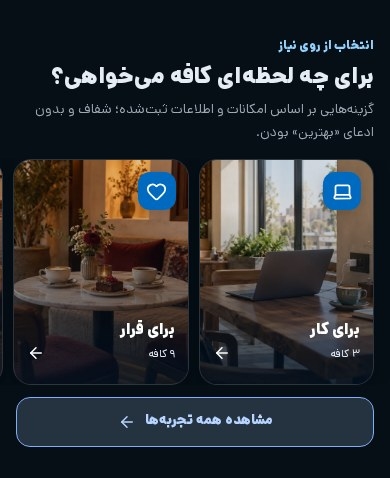
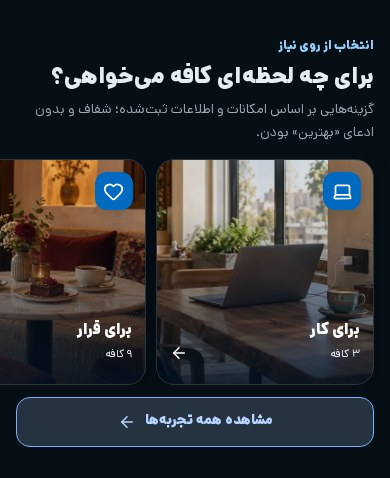
fix(home): preserve partial next experience card on mobile

Changed region(s): [[0.0, 0.3222, 0.9538, 0.8201], [0.3385, 0.7615, 0.3692, 0.7908]]

diff --git a/src/app/page.tsx b/src/app/page.tsx
@@ -87,6 +87,16 @@ const HOME_EXPERIENCE_ART: Record<string, string> = Object.fromEntries([
   'study', 'outdoor', 'late-night', 'calm', 'specialty-coffee',
 ].map((slug) => [slug, `/home/experiences/${slug}.webp`]))
 HOME_EXPERIENCE_ART.photogenic = '/home/experiences/photo.webp'
+const HOME_EXPERIENCE_ALT: Record<string, string> = {
+  gathering: 'تصویر نمادین میز دورهمی دوستانه در کافه',
+  birthday: 'تصویر نمادین چیدمان یک جشن تولد کوچک در کافه',
+  breakfast: 'تصویر نمادین صبحانهٔ ایرانی در کافه',
+  desserts: 'تصویر نمادین شیرینی و چیزکیک در کافه',
+  healthy: 'تصویر نمادین سالاد و سبزیجات گریل در کافه',
+  study: 'تصویر نمادین کتاب و دفتر در گوشهٔ مطالعهٔ کافه',
+  outdoor: 'تصویر نمادین میزهای کافه در یک حیاط سبز',
+  'late-night': 'تصویر نمادین فضای گرم کافه در شب',
+}
 
 export async function generateMetadata(): Promise<Metadata> {
   const [settings, locale] = await Promise.all([getSettings(), getLocalePolicy()])
@@ -349,7 +359,7 @@ export default async function HomePage() {
                     data-experience-slug={experience.slug}
                     data-experience-count={candidateCount}
                   >
-                    <img src={HOME_EXPERIENCE_ART[experience.slug] ?? experience.image} alt={experience.imageAlt} width={480} height={640} loading="lazy" />
+                    <img src={HOME_EXPERIENCE_ART[experience.slug] ?? experience.image} alt={HOME_EXPERIENCE_ALT[experience.slug] ?? `تصویر نمادین: ${experience.imageAlt}`} width={480} height={640} loading="lazy" />
                     <span className={styles.experienceShade} aria-hidden="true" />
                     <span className={styles.experienceBadge}><Icon size={21} aria-hidden="true" /></span>
                     <span className={styles.experienceCopy}>

diff --git a/scripts/home-visual-smoke.ts b/scripts/home-visual-smoke.ts
@@ -57,6 +57,7 @@ try {
     assert.ok(metrics.jsonLd > 0)
     assert.deepEqual(errors, [], `${viewport.width}/${theme}: browser errors`)
     assert.deepEqual(broken, [])
+    let nextCardVisibleFraction: number | null = null
     if (!before) {
       const clippedCards = await page.locator('[class*="featuredEntry"] > a:first-of-type').evaluateAll(cards => cards.filter(card => card.scrollHeight > card.clientHeight + 2).length)
       assert.equal(clippedCards, 0, 'recommended cafe cards must not clip their body')
@@ -74,7 +75,16 @@ try {
           assert.ok(box && box.height >= 48 && box.y + box.height < viewport.height - 82, `${name}: bottom navigation collision`)
         }
         const rail = page.locator('[class*="experienceRail"]')
-        assert.ok(await rail.evaluate(node => node.scrollWidth > node.clientWidth), 'experience swipe remains available')
+        if (await rail.locator('a').count() > 1) {
+          assert.ok(await rail.evaluate(node => node.scrollWidth > node.clientWidth), 'experience swipe remains available')
+          nextCardVisibleFraction = await rail.evaluate(node => {
+            node.scrollLeft = 0
+            const rail = node.getBoundingClientRect()
+            const second = node.querySelectorAll('a')[1].getBoundingClientRect()
+            return Math.max(0, Math.min(innerWidth, rail.right, second.right) - Math.max(0, rail.left, second.left)) / second.width
+          })
+          assert.ok(nextCardVisibleFraction >= .2 && nextCardVisibleFraction <= .85, `${viewport.width}: next experience card must be clearly partial (${nextCardVisibleFraction})`)
+        }
       }
     }
     await page.evaluate(() => scrollTo(0, 0))
@@ -90,7 +100,7 @@ try {
         })
       }
     }
-    results.push({ viewport, theme, ...metrics, images: await images.count(), broken, errors })
+    results.push({ viewport, theme, ...metrics, nextCardVisibleFraction, images: await images.count(), broken, errors })
     await page.close()
   }
 

diff --git a/src/components/home/Home.module.css b/src/components/home/Home.module.css
@@ -573,12 +573,12 @@
 }
 
 .experienceCard {
-  width: min(45vw, 195px);
+  width: min(56vw, 230px);
   min-width: 0;
   height: 226px;
   position: relative;
   display: block;
-  flex: 0 0 min(45vw, 195px);
+  flex: 0 0 min(56vw, 230px);
   overflow: hidden;
   border: 1px solid var(--c-border);
   border-radius: 18px;

diff --git a/docs/HOME_VISUAL_QA_FA.md b/docs/HOME_VISUAL_QA_FA.md
@@ -30,6 +30,8 @@
 - در ۱۴۴۰ پیکسل، ارتفاع کامل از ۵۳۹۰ به ۴۵۷۹ پیکسل رسیده است؛ در ۳۹۰ پیکسل از ۵۰۵۸ به ۵۲۳۵ پیکسل. این اندازهگیری طول صفحه است و بهعنوان معیار سرعت شبکه ارائه نمیشود.
 - کارت غذا در موبایل دو ستون دارد؛ عنوان و Count خارج از Crop عکس قرار دارند. تصویرها در هر دو تم یکسان و بدون Invert هستند.
 - تجربهها بهصورت Rail عمودیتصویر با کارت بعدی نیمهپیدا هستند. CTA «مشاهده همه تجربهها» بیرون Rail و حداقل ۵۰ پیکسل است. CTA محله نیز مستقل است.
+- گیت تکمیلی Swipe، صرفاً به `scrollWidth` اکتفا نمیکند: در موبایل باید بین ۲۰٪ و ۸۵٪ کارت دوم داخل نمای Rail دیده شود. مقدار واقعی در `nextCardVisibleFraction` فایل Metrics ثبت میشود. این گیت ضعف نسخهٔ اولیه در عرضهای ۳۲۰/۳۶۰ را پوشش میدهد.
+- نتیجهٔ Build نهایی در هر دو تم: در عرضهای ۳۲۰، ۳۶۰، ۳۹۰ و ۴۳۰ بهترتیب ۶۴٪، ۶۶٪، ۶۷٪ و ۷۶٪ کارت دوم دیده میشود؛ هر ۱۲ حالت مرورگر موفقاند. عرض کارت دسکتاپ تغییر نکرده است.
 - عکس محیط و لوگو در کارت نظر رفتار متفاوت دارند؛ نام تا دو خط جا دارد. هیچ Badge تأیید خرید ایجاد نشده است.
 - کارتهای پیشنهادی دیگر از ناحیهٔ عکس به پایین بریده نمیشوند. تست، `scrollHeight/clientHeight` کارت را کنترل میکند.
 - CTAهای موبایل با Bounding Box و نوار پایین واقعی بررسی میشوند. Screenshotهای Full Page و First Fold نوار ثابت را حفظ میکنند؛ Cropهای تکیِ کامپوننت برای مقایسهٔ خود کارت، موقتاً نوار ثابت را پنهان میکنند.

diff --git a/docs/HOME_VISUAL_RELEASE_FA.md b/docs/HOME_VISUAL_RELEASE_FA.md
@@ -30,3 +30,11 @@ Branch: `feat/home-visual-redesign-20261018`.
 نسخهٔ سالم پیش از Merge و Imageهای App/Worker آن ثبت و حفظ میشوند. در شکست بحرانی، هر دو سرویس طبق `scripts/docker-deploy.sh` و Runbook Docker به همان نسخهٔ سازگار بازگردند. برای تغییر UI، دیتابیس Restore یا ستونها حذف نشوند. در صورت نیاز به هماهنگکردن GitHub با Runtime، Revert همین تغییر با بررسی مستقل انجام شود.
 
 نتیجهٔ واقعی Merge، URL اجرای Workflow، SHA Runtime و Acceptance پس از اتمام در گزارش تحویل و شواهد همان PR ثبت میشود؛ موفقیت Merge بهتنهایی پذیرش Runtime محسوب نمیشود.
+
+## انتشار اصلی و اصلاح تکمیلی Rail
+
+PR [#87](https://github.com/Rezz0722/cafe/pull/87) با Commit `a76984d68170fb0f7dad52716b3d9bde8bceed8e` منتشر شد. [Workflow](https://github.com/Rezz0722/cafe/actions/runs/39142605035) موفق بود؛ App/Worker روی همان SHA و Healthy، بدون Restart بودند. شمار رکوردها و هر دو Fingerprint بالا حفظ شدند. QA مرورگر Production در ۱۲ حالت موفق شد.
+
+اندازهگیری واقعی پس از انتشار، ضعف نشانهٔ Swipe را مشخص کرد: در ۳۲۰ و ۳۶۰ پیکسل کارت سوم دیده نمیشد و در ۳۹۰ فقط ۲٪ آن پیدا بود. Branch `fix/home-experience-rail-peek-20261018` روی همین Production ساخته شد تا عرض کارت موبایل و Alt متناظر تصاویر نمادین را اصلاح کند. گیت جدید، دیدهشدن بخشی معنادار از کارت دوم را با هندسهٔ واقعی مرورگر میسنجد. تغییر Backend یا Schema وجود ندارد.
+
+انتشار این اصلاح فقط پس از CI و QA همان Head و پایان انتشار اصلی انجام میشود؛ Image سالم `sha-a76984d68170` نقطهٔ بازگشت مرحلهٔ دوم است.
